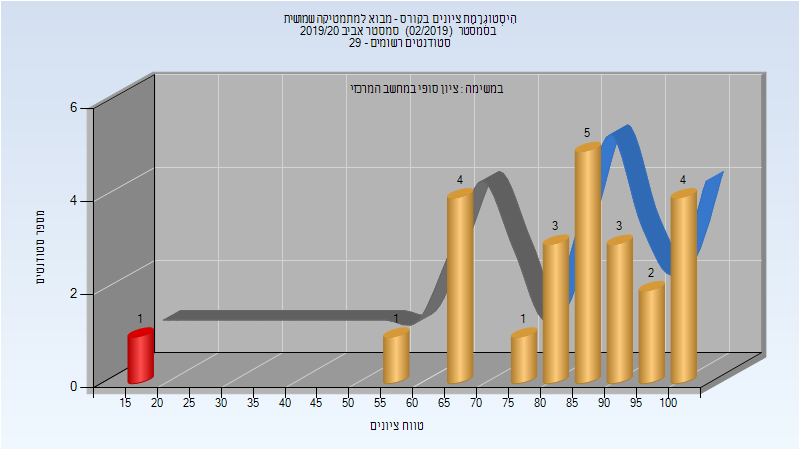
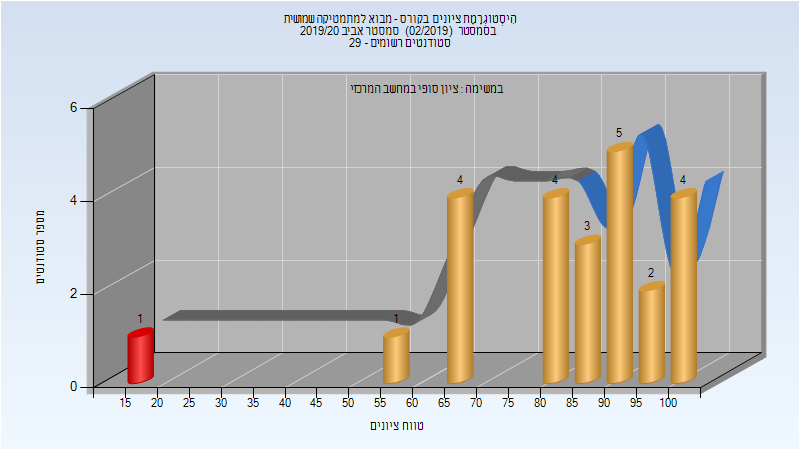
Deploy michael-maltsev/technion-histograms to github.com/michael-maltsev/technion-histograms.git:gh-pages

Changed region(s): [[0.5938, 0.28, 0.8438, 0.8711], [0.875, 0.4978, 0.9062, 0.56]]

diff --git a/104192/index.html b/104192/index.html
@@ -320,8 +320,8 @@
 <td>96</td>
 <td>16</td>
 <td>100</td>
-<td>81.833</td>
-<td>85</td>
+<td>82.417</td>
+<td>86.5</td>
 </tr>
 </tbody>
 </table>

diff --git a/104192/README.md b/104192/README.md
@@ -98,5 +98,5 @@
 
 | סטודנטים | עברו/נכשלו | אחוז עוברים | ציון מינימלי | ציון מקסימלי | ממוצע | חציון |
 | ---- | ---- | ---- | ---- | ---- | ---- | ---- |
-| 24 | 23/1 | 96 | 16 | 100 | 81.833 | 85 |
+| 24 | 23/1 | 96 | 16 | 100 | 82.417 | 86.5 |
 
